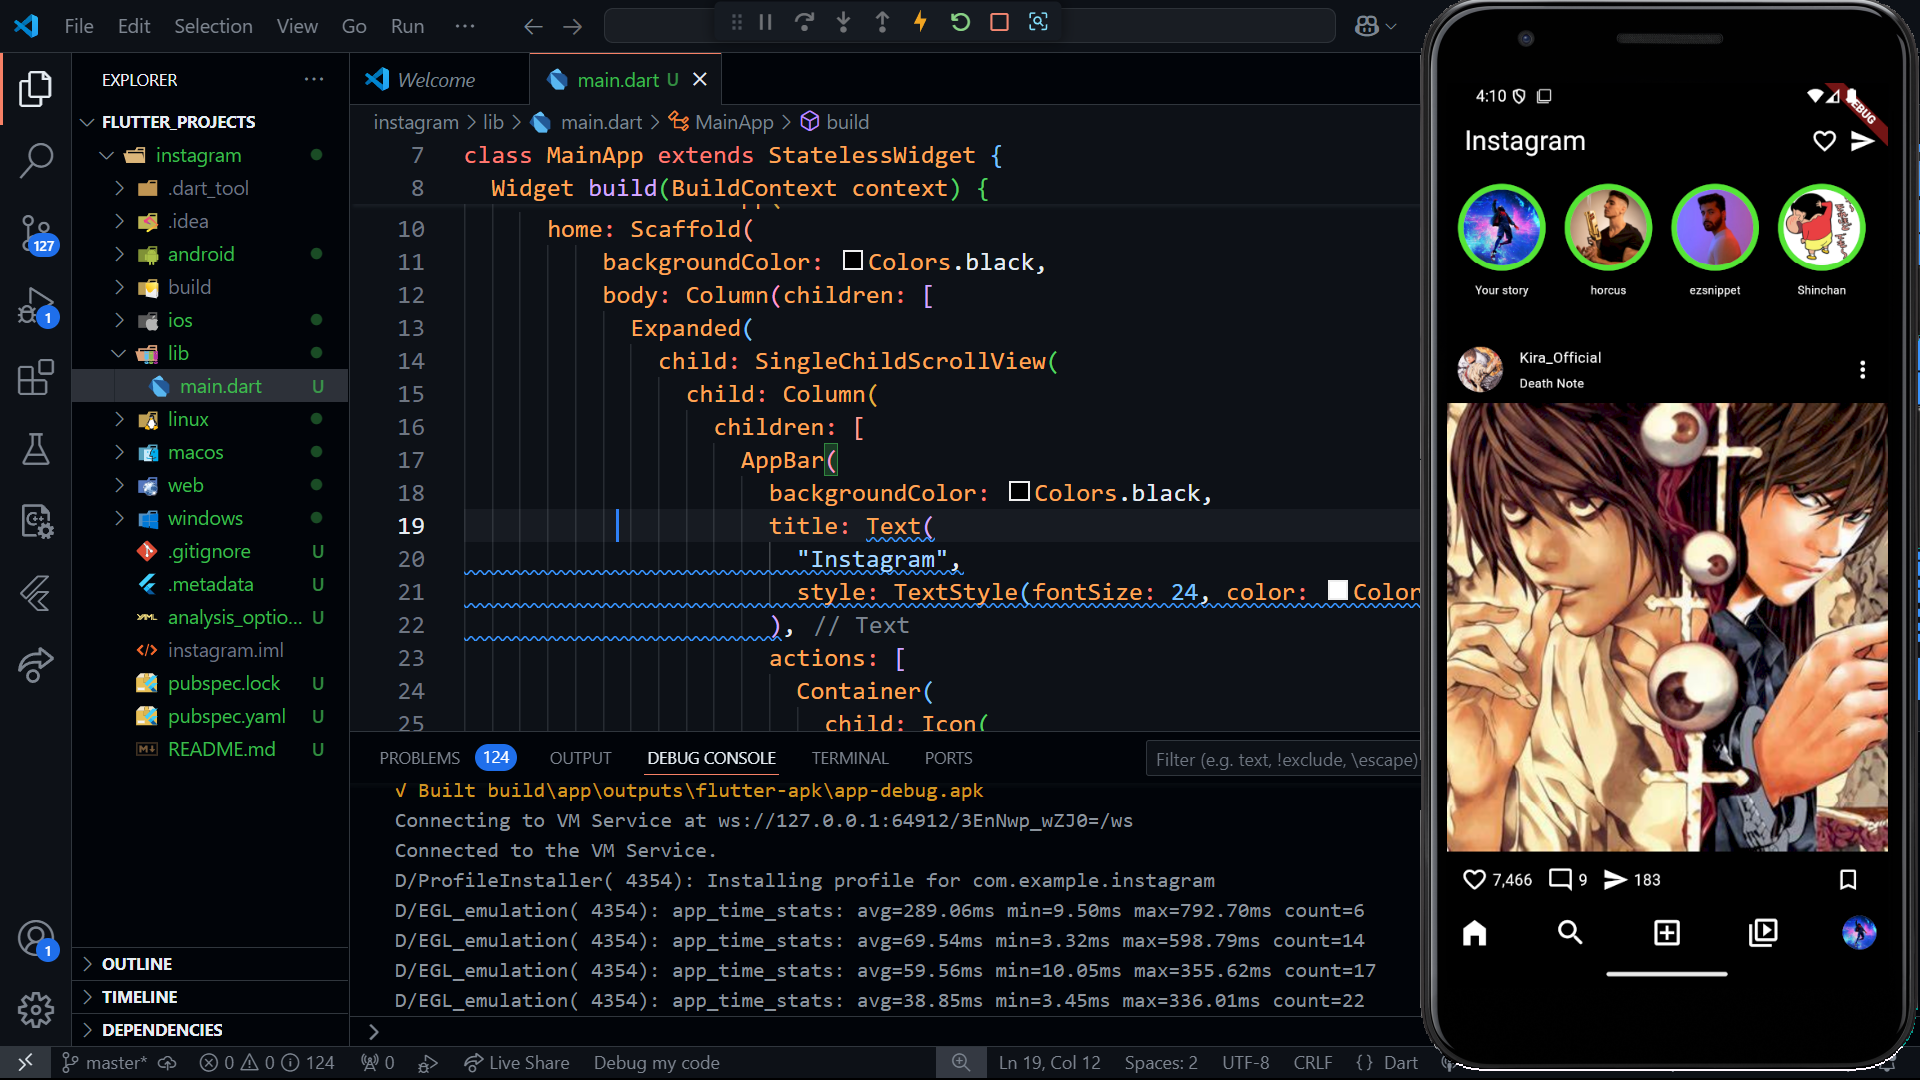
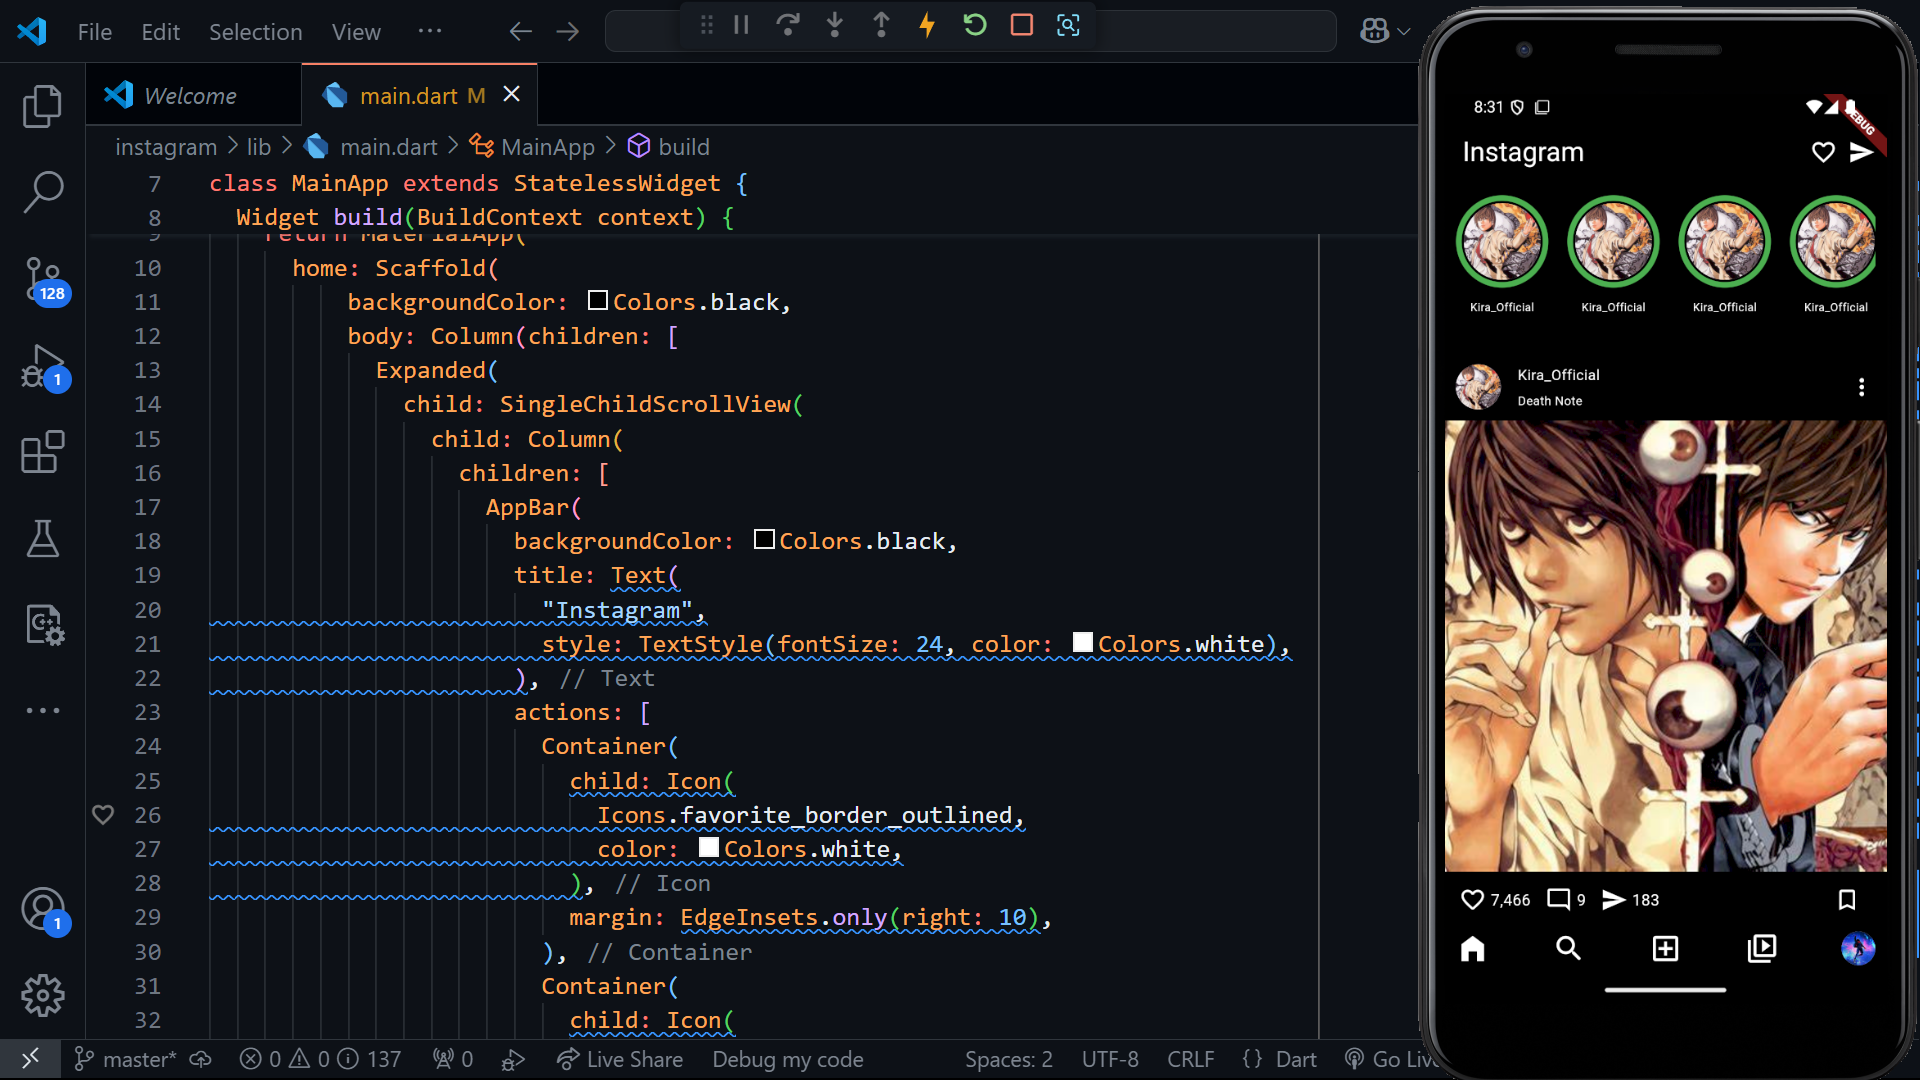
updated

diff --git a/instagram/lib/main.dart b/instagram/lib/main.dart
@@ -38,171 +38,42 @@ class MainApp extends StatelessWidget {
                       ],
                     ),
                     Container(
-                      padding: EdgeInsets.all(10),
-                      child: SingleChildScrollView(
-                        scrollDirection: Axis.horizontal,
-                        child: Row(
-                          children: [
-                            Container(
-                              margin: EdgeInsets.only(right: 17),
-                              child: Column(
-                                children: [
-                                  CircleAvatar(
-                                    radius: 39,
-                                    backgroundColor:
-                                        const Color.fromARGB(255, 85, 229, 53),
-                                    child: CircleAvatar(
-                                      radius: 34,
-                                      backgroundImage: NetworkImage(
-                                        "https://th.bing.com/th/id/OIP.Oi5YjDy4agUTkb41nagZGwHaHa?w=512&h=512&rs=1&pid=ImgDetMain",
+                        height: 126,
+                        padding: EdgeInsets.all(10),
+                        child: ListView.builder(
+                            itemCount: 20,
+                            scrollDirection: Axis.horizontal,
+                            itemBuilder: (context, index) {
+                              return Container(
+                                margin: EdgeInsets.only(right: 17),
+                                child: Column(
+                                  children: [
+                                    Container(
+                                      padding: EdgeInsets.all(2),
+                                      decoration: BoxDecoration(
+                                        borderRadius: BorderRadius.circular(61),
+                                        border: Border.all(
+                                            color: Colors.green, width: 5),
+                                      ),
+                                      child: CircleAvatar(
+                                        radius: 34,
+                                        backgroundImage: NetworkImage(
+                                          "https://i.pinimg.com/736x/c4/1c/6a/c41c6af58f15f3a42f977bbfe5f6c102.jpg",
+                                        ),
                                       ),
                                     ),
-                                  ),
-                                  SizedBox(
-                                    height: 10,
-                                  ),
-                                  Text(
-                                    "Your story",
-                                    style: TextStyle(
-                                        color: Colors.white, fontSize: 10),
-                                  )
-                                ],
-                              ),
-                            ),
-                            Container(
-                              margin: EdgeInsets.only(right: 17),
-                              child: Column(
-                                children: [
-                                  CircleAvatar(
-                                    radius: 39,
-                                    backgroundColor:
-                                        const Color.fromARGB(255, 85, 229, 53),
-                                    child: CircleAvatar(
-                                      radius: 34,
-                                      backgroundImage: NetworkImage(
-                                        "https://static-cdn.jtvnw.net/jtv_user_pictures/0f312ced-a2e2-4c97-a50a-0410c99f4669-profile_image-300x300.png",
-                                      ),
+                                    SizedBox(
+                                      height: 10,
                                     ),
-                                  ),
-                                  SizedBox(
-                                    height: 10,
-                                  ),
-                                  Text(
-                                    "horcus",
-                                    style: TextStyle(
-                                        color: Colors.white, fontSize: 10),
-                                  )
-                                ],
-                              ),
-                            ),
-                            Container(
-                              margin: EdgeInsets.only(right: 17),
-                              child: Column(
-                                children: [
-                                  CircleAvatar(
-                                    radius: 39,
-                                    backgroundColor:
-                                        const Color.fromARGB(255, 85, 229, 53),
-                                    child: CircleAvatar(
-                                      radius: 34,
-                                      backgroundImage: NetworkImage(
-                                        "https://whytrending.in/wp-content/uploads/2024/01/2-1-jpg.webp",
-                                      ),
-                                    ),
-                                  ),
-                                  SizedBox(
-                                    height: 10,
-                                  ),
-                                  Text(
-                                    "ezsnippet",
-                                    style: TextStyle(
-                                        color: Colors.white, fontSize: 10),
-                                  )
-                                ],
-                              ),
-                            ),
-                            Container(
-                              margin: EdgeInsets.only(right: 17),
-                              child: Column(
-                                children: [
-                                  CircleAvatar(
-                                    radius: 39,
-                                    backgroundColor:
-                                        const Color.fromARGB(255, 85, 229, 53),
-                                    child: CircleAvatar(
-                                      radius: 34,
-                                      backgroundImage: NetworkImage(
-                                        "https://yt3.ggpht.com/a/AGF-l7-P0WLLa1PtOA6ToCBtdLi1krgSKbdqYP7FEw=s900-c-k-c0xffffffff-no-rj-mo",
-                                      ),
-                                    ),
-                                  ),
-                                  SizedBox(
-                                    height: 10,
-                                  ),
-                                  Text(
-                                    "Shinchan",
-                                    style: TextStyle(
-                                        color: Colors.white, fontSize: 10),
-                                  )
-                                ],
-                              ),
-                            ),
-                            Container(
-                              margin: EdgeInsets.only(right: 17),
-                              child: Column(
-                                children: [
-                                  CircleAvatar(
-                                    radius: 39,
-                                    backgroundColor:
-                                        const Color.fromARGB(255, 85, 229, 53),
-                                    child: CircleAvatar(
-                                      radius: 34,
-                                      backgroundImage: NetworkImage(
-                                        "https://logos-download.com/wp-content/uploads/2021/01/Valorant_Logo.png",
-                                      ),
-                                    ),
-                                  ),
-                                  SizedBox(
-                                    height: 10,
-                                  ),
-                                  Text(
-                                    "Valorant",
-                                    style: TextStyle(
-                                        color: Colors.white, fontSize: 10),
-                                  )
-                                ],
-                              ),
-                            ),
-                            Container(
-                              margin: EdgeInsets.only(right: 17),
-                              child: Column(
-                                children: [
-                                  CircleAvatar(
-                                    radius: 39,
-                                    backgroundColor:
-                                        const Color.fromARGB(255, 85, 229, 53),
-                                    child: CircleAvatar(
-                                      radius: 34,
-                                      backgroundImage: NetworkImage(
-                                        "https://i.pinimg.com/736x/c4/1c/6a/c41c6af58f15f3a42f977bbfe5f6c102.jpg",
-                                      ),
-                                    ),
-                                  ),
-                                  SizedBox(
-                                    height: 10,
-                                  ),
-                                  Text(
-                                    "Kira_Official",
-                                    style: TextStyle(
-                                        color: Colors.white, fontSize: 10),
-                                  )
-                                ],
-                              ),
-                            ),
-                          ],
-                        ),
-                      ),
-                    ),
+                                    Text(
+                                      "Kira_Official",
+                                      style: TextStyle(
+                                          color: Colors.white, fontSize: 10),
+                                    )
+                                  ],
+                                ),
+                              );
+                            })),
                     Container(
                       // height: 500,
                       child: ListView.builder(
